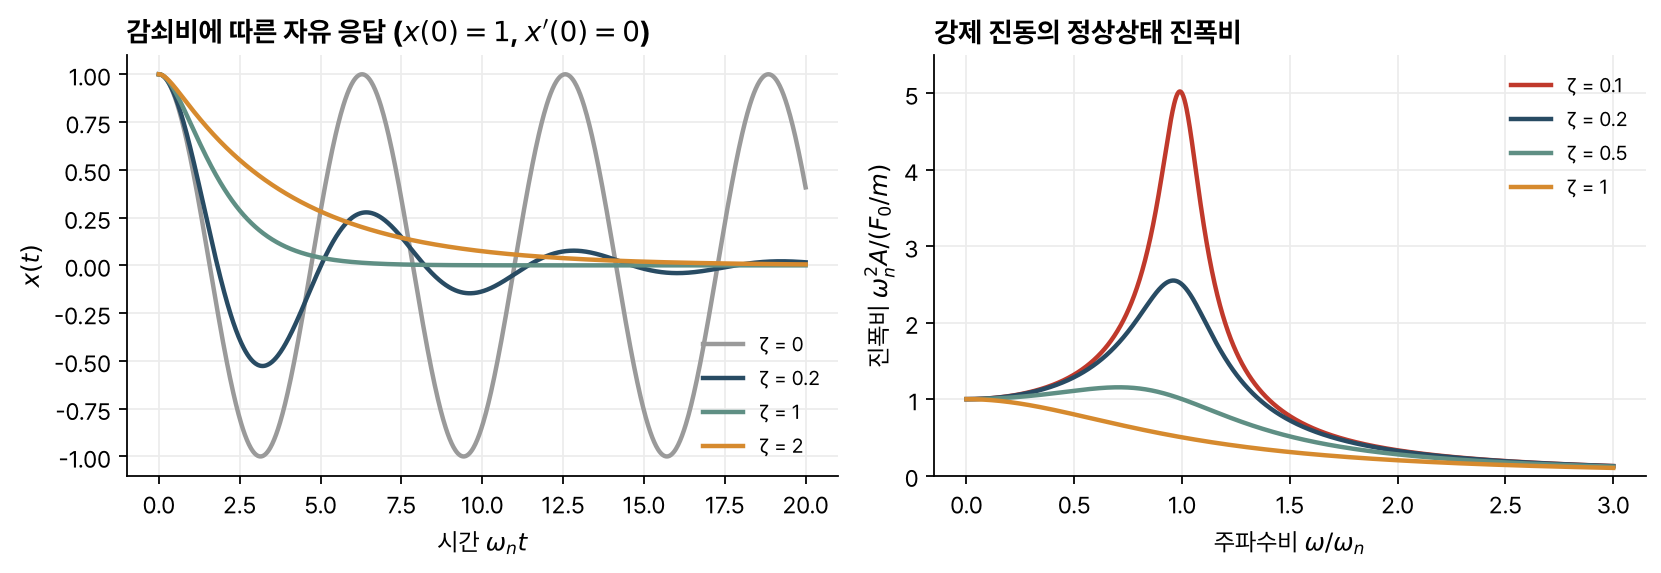
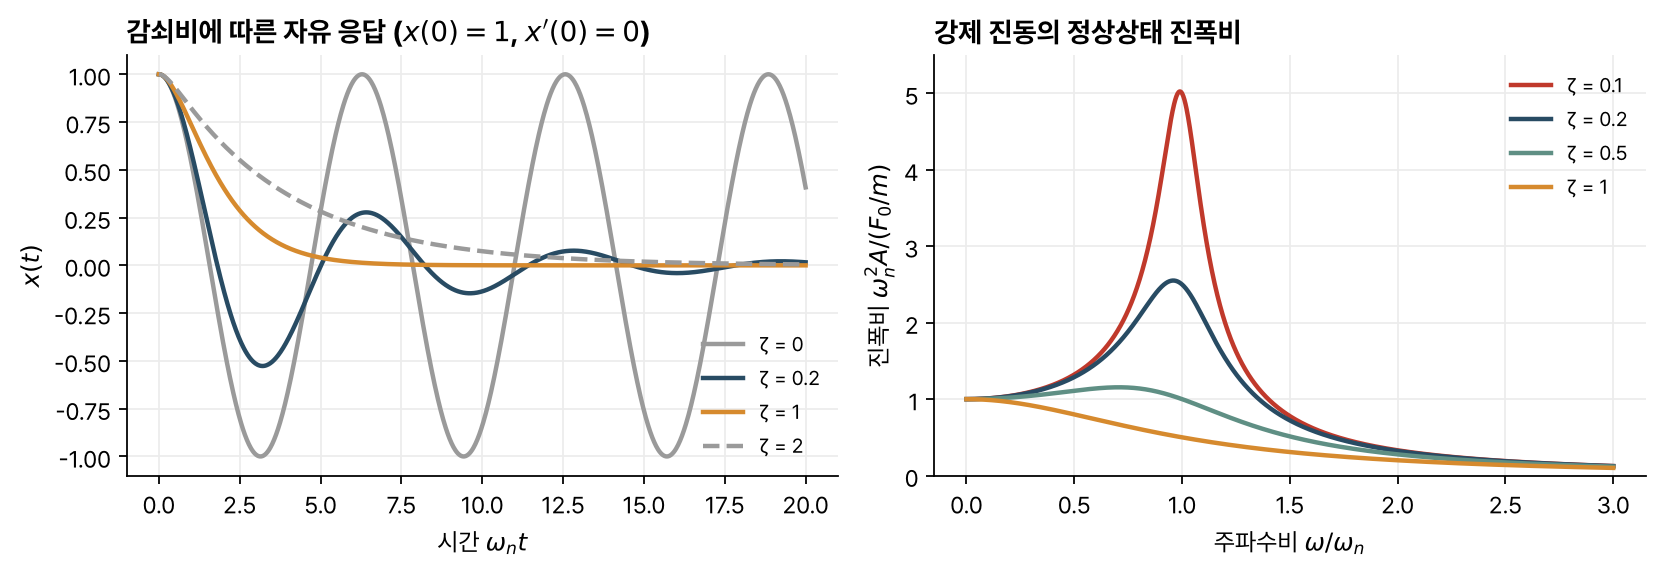
Fix review findings in MAS201 reference notes
Remove banned phrasings, move the reference table under the out-of-scope
section, qualify stability, damping and linearization claims, add a few
transform pairs and expansion formulas, and keep one colour per damping
ratio in the figure.

Claude-Session: https://claude.ai/code/session_01DRUnFxFn4g3T7a1hqi5YWp

diff --git a/scripts/figures/ode_reference.py b/scripts/figures/ode_reference.py
@@ -18,18 +18,22 @@ setup()
 wn = 1.0
 t = np.linspace(0, 20, 1000)
 fig, axes = plt.subplots(1, 2, figsize=(10.5, 3.7))
-for z, c in [(0.0, GRAY), (0.2, BLUE), (1.0, TEAL), (2.0, ORANGE)]:
+# 감쇠비마다 색을 하나로 정해 두 패널에서 같게 쓴다
+COLOR = {0.0: (GRAY, "-"), 0.1: (RED, "-"), 0.2: (BLUE, "-"), 0.5: (TEAL, "-"), 1.0: (ORANGE, "-"), 2.0: (GRAY, "--")}
+for z in (0.0, 0.2, 1.0, 2.0):
+    c, ls = COLOR[z]
     sol = solve_ivp(lambda tt, y: [y[1], -2 * z * wn * y[1] - wn**2 * y[0]], (0, 20), [1, 0], t_eval=t, rtol=1e-9, atol=1e-12)
-    axes[0].plot(t, sol.y[0], color=c, lw=2, label=f"ζ = {z:g}")
+    axes[0].plot(t, sol.y[0], color=c, ls=ls, lw=2, label=f"ζ = {z:g}")
 axes[0].set_xlabel("시간 $\\omega_n t$")
 axes[0].set_ylabel("$x(t)$")
 axes[0].set_title("감쇠비에 따른 자유 응답 ($x(0)=1$, $x'(0)=0$)", loc="left")
 axes[0].legend(fontsize=9)
 
 r = np.linspace(0, 3, 1200)
-for z, c in [(0.1, RED), (0.2, BLUE), (0.5, TEAL), (1.0, ORANGE)]:
+for z in (0.1, 0.2, 0.5, 1.0):
+    c, ls = COLOR[z]
     m = 1 / np.sqrt((1 - r**2) ** 2 + (2 * z * r) ** 2)
-    axes[1].plot(r, m, color=c, lw=2, label=f"ζ = {z:g}")
+    axes[1].plot(r, m, color=c, ls=ls, lw=2, label=f"ζ = {z:g}")
 axes[1].set_ylim(0, 5.5)
 axes[1].set_xlabel("주파수비 $\\omega/\\omega_n$")
 axes[1].set_ylabel("진폭비 $\\omega_n^2 A / (F_0/m)$")
@@ -57,7 +61,9 @@ for ax, (name, A) in zip(axes, cases):
     V = A[1, 0] * Xg + A[1, 1] * Yg
     if name == "중심":
         # 닫힌 궤도는 streamplot이 끝을 잇지 못해 나선처럼 보이므로 보존량 x² + y²의 등고선으로 그린다
-        ax.contour(Xg, Yg, Xg**2 + Yg**2, levels=[0.1, 0.4, 0.9, 1.6, 2.5, 3.6], colors=BLUE, linewidths=0.9)
+        gf = np.linspace(-2, 2, 401)
+        Xf, Yf = np.meshgrid(gf, gf)
+        ax.contour(Xf, Yf, Xf**2 + Yf**2, levels=[0.1, 0.4, 0.9, 1.6, 2.5, 3.6], colors=BLUE, linewidths=0.9)
         ax.quiver(Xg[::2, ::2], Yg[::2, ::2], U[::2, ::2], V[::2, ::2], color=GRAY, angles="xy", scale=60, width=0.006)
     else:
         ax.streamplot(Xg, Yg, U, V, color=BLUE, density=0.9, linewidth=0.8, arrowsize=0.8)

diff --git a/content/courses/kaist-mas201/linear-systems-ode.md b/content/courses/kaist-mas201/linear-systems-ode.md
@@ -47,6 +47,7 @@ $e^{At}$를 구하는 방법은 셋이다.
 1. 대각화: $A = PDP^{-1}$이면 $e^{At} = Pe^{Dt}P^{-1}$, $e^{Dt}$는 대각 원소 $e^{\lambda_it}$.
 2. 라플라스 변환: $e^{At} = \mathcal L^{-1}\{(sI - A)^{-1}\}$.
 3. 기본 행렬: $e^{At} = \Phi(t)\Phi(0)^{-1}$.
+4. Cayley-Hamilton: $2\times2$이면 $e^{At} = \alpha_0I + \alpha_1A$이고, 서로 다른 고윳값마다 $e^{\lambda_it} = \alpha_0 + \alpha_1\lambda_i$를 풀어 $\alpha_0$, $\alpha_1$을 구한다.
 
 위의 $A = \begin{bmatrix}0 & 1\\ -2 & -3\end{bmatrix}$이면 $(sI - A)^{-1} = \dfrac{1}{(s+1)(s+2)}\begin{bmatrix}s + 3 & 1\\ -2 & s\end{bmatrix}$이고, 원소마다 부분분수로 역변환하면
 
@@ -77,16 +78,17 @@ $2\times2$ 행렬에서 $\tau = \operatorname{tr}A$, $\Delta = \det A$로 두면
 | $\Delta > 0$, $\tau^2 - 4\Delta = 0$ | 실수 중근 | 퇴화 마디점 또는 별 모양 마디점 | $\tau$의 부호로 정함 |
 | $\Delta > 0$, $\tau^2 - 4\Delta < 0$, $\tau \ne 0$ | 실수부가 0이 아닌 복소수 | 나선점 | $\tau < 0$이면 안정, $\tau > 0$이면 불안정 |
 | $\Delta > 0$, $\tau = 0$ | 순허수 | 중심 | 안정이지만 점근 안정은 아님 |
-| $\Delta = 0$ | 0인 고윳값 포함 | 평형점이 직선 위에 늘어섬 | 다른 고윳값으로 판정 |
+| $\Delta = 0$, $\tau \ne 0$ | 0과 $\tau$ | 평형점이 직선 위에 늘어섬 | $\tau < 0$이면 그 직선으로 다가감 |
+| $\Delta = 0$, $\tau = 0$ | 0인 중근 | $A = 0$이면 모든 점이 평형점, 아니면 해가 $t$에 비례해 자람 | 불안정($A = 0$ 제외) |
 
 ![[../../images/linear-systems-ode/phase-portraits.png]]
 *그림 1. 행렬 넷의 위상 초상. 왼쪽부터 $\begin{bmatrix}1&3\\3&1\end{bmatrix}$, $\begin{bmatrix}-3&1\\1&-3\end{bmatrix}$, $\begin{bmatrix}-1&2\\-2&-1\end{bmatrix}$, $\begin{bmatrix}0&2\\-2&0\end{bmatrix}$이다. 중심은 보존량 $x^2 + y^2$의 등고선과 방향 화살표로 그렸다. 직접 계산했다.*
 
 ## 비선형계의 선형화
 
-$X' = F(X)$의 평형점 $X^*$($F(X^*) = 0$) 근처에서는 Jacobian $J = \partial F/\partial X\,\big|_{X^*}$로 $U' = JU$($U = X - X^*$)를 본다. $J$의 고윳값 실수부가 모두 0이 아니면 선형화의 분류(안장점, 마디점, 나선점)가 평형점 근처의 원래 흐름에도 그대로 맞는다.
+$X' = F(X)$의 평형점 $X^*$($F(X^*) = 0$) 근처에서는 Jacobian $J = \partial F/\partial X\,\big|_{X^*}$로 $U' = JU$($U = X - X^*$)를 본다. $J$의 고윳값 실수부가 모두 0이 아니면 평형점 근처의 원래 흐름은 선형화와 위상적으로 같다(Hartman-Grobman 정리). 안장점, 안정·불안정은 그대로 맞지만, 중근에서 나온 퇴화 마디점이나 별 모양 마디점은 원래 계에서 나선점이 될 수 있다.
 
-선형화가 중심이나 0인 고윳값을 주면 원래 계는 중심일 수도, 느린 나선일 수도 있다. 이때는 보존량이나 Lyapunov 함수 같은 다른 방법으로 판정한다.
+선형화가 중심을 주면 원래 계는 중심일 수도, 느린 나선일 수도 있다. 0인 고윳값이 있으면 선형화로는 거의 아무것도 정할 수 없다. 이때는 보존량이나 Lyapunov 함수 같은 다른 방법으로 판정한다.
 
 ## 유의점
 
@@ -104,5 +106,5 @@ $X' = F(X)$의 평형점 $X^*$($F(X^*) = 0$) 근처에서는 Jacobian $J = \part
 
 ## 참고 자료
 
-- Dennis G. Zill, _Advanced Engineering Mathematics_, Ch. 10 (Systems of Linear Differential Equations), Ch. 11 (Systems of Nonlinear Differential Equations).
+- Dennis G. Zill, _Advanced Engineering Mathematics_, «Systems of Linear Differential Equations»와 «Systems of Nonlinear Differential Equations» 장(판에 따라 장 번호가 다르다).
 - 예의 해와 행렬 지수는 직접 계산했고, 원식에 대입해 확인했다.

diff --git a/content/courses/kaist-mas201/series-solutions-special-functions.md b/content/courses/kaist-mas201/series-solutions-special-functions.md
@@ -7,7 +7,7 @@ description: 계수가 상수가 아닌 2계 선형식을 거듭제곱급수로 
 ---
 
 > [!abstract] 한눈에
-> 계수가 $x$의 함수인 2계 선형식은 대개 닫힌 꼴의 해가 없어, 해를 거듭제곱급수로 두고 계수의 점화식을 구한다. 계수가 매끄러운 보통점에서는 Taylor 급수로, 정칙특이점에서는 $x^r$을 곱한 Frobenius 급수로 푼다. 이렇게 얻는 해 가운데 원통·구 좌표의 문제에 되풀이해 나오는 것이 Bessel 함수와 Legendre 다항식이다.
+> 계수가 $x$의 함수인 2계 선형식은 대개 닫힌 꼴의 해가 없어, 해를 거듭제곱급수로 두고 계수의 점화식을 구한다. 계수가 매끄러운 보통점에서는 Taylor 급수로, 정칙특이점에서는 $x^r$을 곱한 Frobenius 급수로 푼다. Bessel 함수와 Legendre 다항식은 이렇게 얻는 해로, 원통·구 좌표 문제에 되풀이해 나온다.
 
 ## 보통점과 특이점
 
@@ -60,6 +60,7 @@ $(1 - x^2)y'' - 2xy' + n(n+1)y = 0$은 $x = \pm1$에 정칙특이점이 있다. 
 - Rodrigues 공식: $P_n(x) = \dfrac{1}{2^nn!}\dfrac{d^n}{dx^n}(x^2 - 1)^n$
 - 점화식: $(n+1)P_{n+1} = (2n+1)xP_n - nP_{n-1}$
 - 직교성: $\int_{-1}^{1}P_mP_n\,dx = \dfrac{2}{2n+1}\delta_{mn}$
+- Fourier-Legendre 전개: $f(x) = \sum c_nP_n(x)$, $c_n = \dfrac{2n+1}{2}\int_{-1}^{1}f(x)P_n(x)\,dx$
 
 구 좌표에서 축 대칭인 라플라스 방정식을 변수분리하면 각도 부분이 $x = \cos\theta$인 Legendre 방정식이 된다.
 
@@ -86,6 +87,7 @@ $$
 - $J_{1/2}(x) = \sqrt{\dfrac{2}{\pi x}}\sin x$, $J_{-1/2}(x) = \sqrt{\dfrac{2}{\pi x}}\cos x$
 - $J_0$의 영점은 약 2.405, 5.520이고 $J_1$의 첫 영점은 약 3.832다.
 - $J_n(\alpha_ib) = 0$인 서로 다른 $\alpha_i$, $\alpha_j$에 대해 $\int_0^b xJ_n(\alpha_ix)J_n(\alpha_jx)\,dx = 0$이다(가중치 $x$의 직교성).
+- Fourier-Bessel 전개: $f(x) = \sum_i c_iJ_n(\alpha_ix)$, $c_i = \dfrac{2}{b^2J_{n+1}(\alpha_ib)^2}\int_0^b xJ_n(\alpha_ix)f(x)\,dx$
 
 감마 함수는 $\Gamma(z) = \int_0^\infty t^{z-1}e^{-t}\,dt$이고 $\Gamma(z+1) = z\Gamma(z)$, $\Gamma(n+1) = n!$, $\Gamma(1/2) = \sqrt\pi$다.
 
@@ -104,5 +106,5 @@ $$
 
 ## 참고 자료
 
-- Dennis G. Zill, _Advanced Engineering Mathematics_, Ch. 5 (Series Solutions of Linear Differential Equations).
+- Dennis G. Zill, _Advanced Engineering Mathematics_, «Series Solutions of Linear Differential Equations» 장(판에 따라 장 번호가 다르다).
 - 예와 점화식은 직접 계산했고, Legendre 다항식과 Bessel 함수의 성질은 수치로 확인했다.

diff --git a/content/courses/kaist-mas201/index.md b/content/courses/kaist-mas201/index.md
@@ -10,14 +10,16 @@ aliases: [MAS201]
 | --- | --- |
 | 정의·차수·선형성·해의 구간 | [[ode-solutions-initial-values\|미분방정식과 초기값 문제]] |
 | 1차 선형식·적분인자·완전미분·Bernoulli 형태 | [[first-order-linear-exact\|적분인자와 완전미분방정식]] |
+| 1계식의 꼴 판별과 풀이, 자율 방정식, 대표 모형 | [[first-order-ode-methods\|1계 미분방정식 풀이법 모음]] |
 
-## 공학수학 공식집
+## 강의 범위 밖
 
-공식, 판별표, 직접 계산한 예를 모은 글들이다. 주제는 Zill의 _Advanced Engineering Mathematics_ 차례를 따랐다. 확인한 손필기가 1계식 범위여서 강의 범위 밖으로 둔다.
+### 공학수학 공식집
+
+주제는 Zill의 _Advanced Engineering Mathematics_ 차례를 따랐다. 손필기에서 확인하지 못한 범위여서 이곳에 둔다.
 
 | 주제 | 본문 |
 | --- | --- |
-| 1계식의 꼴 판별과 풀이, 자율 방정식, 대표 모형 | [[first-order-ode-methods\|1계 미분방정식 풀이법 모음]] |
 | 특성방정식, 미정계수법, 매개변수 변환법, Cauchy-Euler, 진동 | [[linear-second-order-ode\|2계 선형 미분방정식 공식집]] |
 | 변환 쌍, 성질, 부분분수, 계단·임펄스 강제항 | [[laplace-transform-table\|라플라스 변환 공식표]] |
 | 고윳값 방법, 행렬 지수, 평형점 분류, 선형화 | [[linear-systems-ode\|연립 선형 미분방정식]] |
@@ -25,7 +27,7 @@ aliases: [MAS201]
 | 푸리에 급수, 반범위 전개, 열·파동·라플라스 방정식 | [[fourier-series-pde\|푸리에 급수와 편미분방정식]] |
 | Euler·Heun·RK4, 안정성, 강성, 경계값 문제 | [[numerical-methods-ode\|미분방정식의 수치해법]] |
 
-## 강의 범위 밖
+### 그 밖의 글
 
 - [[second-order-systems-numerics|고계 선형식·연립계·수치해]]: 공개 미분방정식 강의로 보충했다. 확인한 개인 필기는 1차식 중심이어서 실제 학기의 후반 단원과 동일하다고 확정하지 않는다.
 - [[laplace-transform|라플라스 변환과 초기조건]]

diff --git a/content/courses/kaist-mas201/first-order-linear-exact.md b/content/courses/kaist-mas201/first-order-linear-exact.md
@@ -25,7 +25,7 @@ $$
 y(x)=\frac{\mu(x_0)y_0+\int_{x_0}^{x}\mu(s)Q(s)ds}{\mu(x)}
 $$
 
-로 바로 쓸 수 있다. 구한 결과는 원식과 초기조건에 대입해 검산한다.
+로 쓸 수 있다. 구한 결과는 원식과 초기조건에 대입해 검산한다.
 
 ## 동차해와 특수해
 
